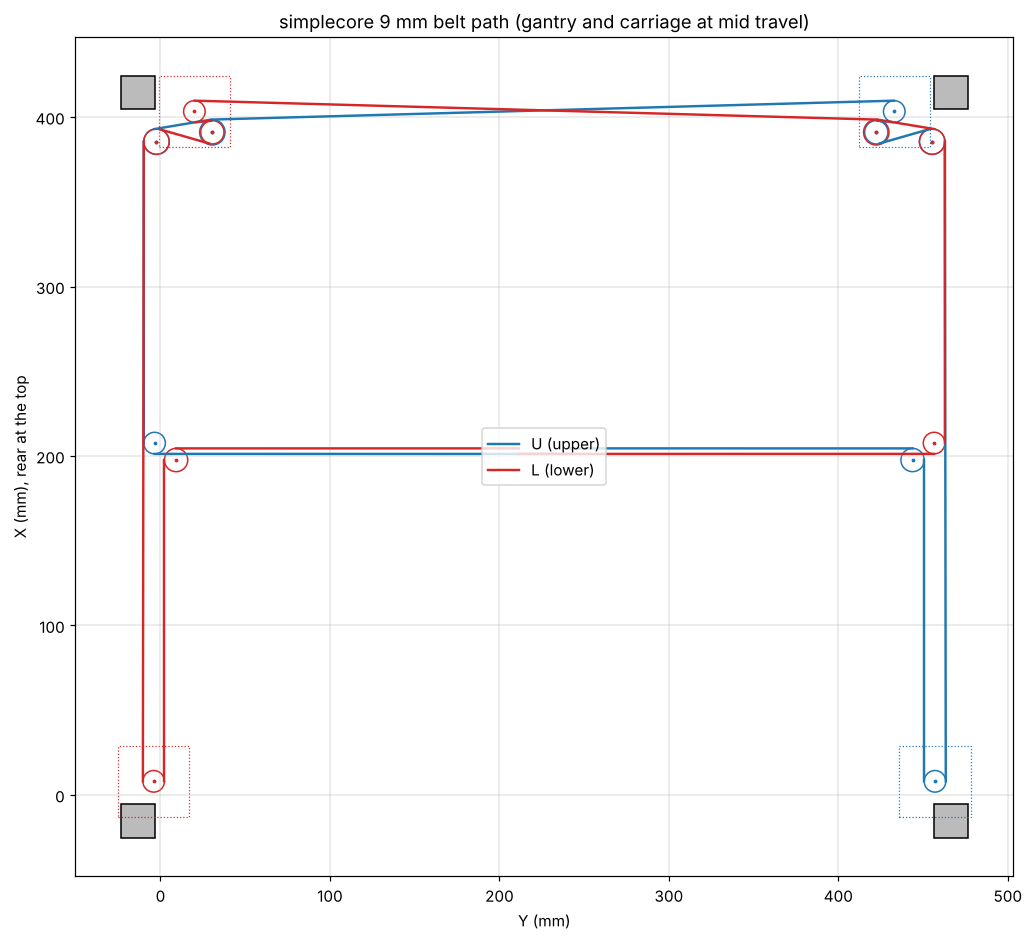
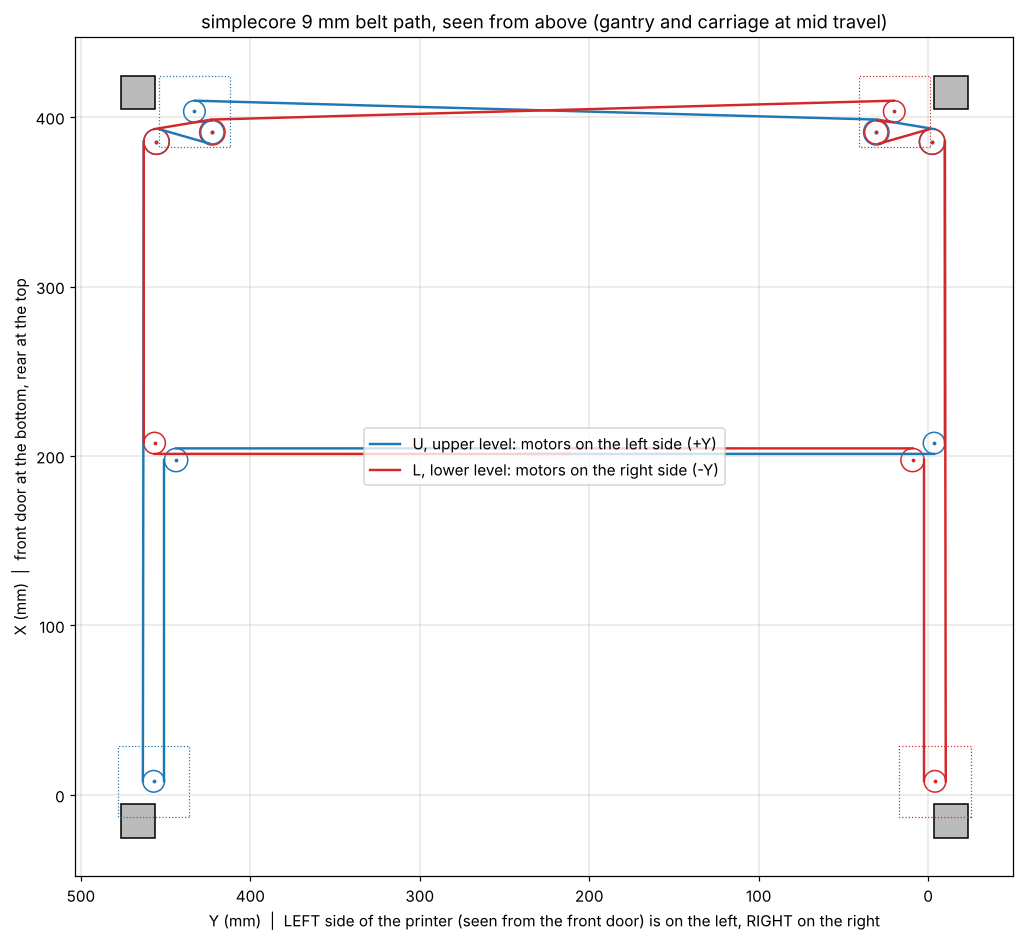
9 mm belts: draw the belt path as a true top view (left side on the left)
Claude-Session: https://claude.ai/code/session_01M2WaH9zMmXLPC6fQWdVKvF

diff --git a/9mm-belts/beltpath.py b/9mm-belts/beltpath.py
@@ -46,14 +46,14 @@ def draw(fn):
     fig, ax = plt.subplots(figsize=(11, 10))
     for (x0, y0) in [(-25.5, -23.5), (-25.5, 456.5), (404.5, -23.5), (404.5, 456.5)]:
         ax.add_patch(plt.Rectangle((y0, x0), 20, 20, fc="#bbb", ec="k"))
-    for nm, B, col in zip(("U (upper)", "L (lower)"), belts(185.3, 241.5), ("tab:blue", "tab:red")):
+    for nm, B, col in zip(("U, upper level: motors on the left side (+Y)", "L, lower level: motors on the right side (-Y)"), belts(185.3, 241.5), ("tab:blue", "tab:red")):
         segs, wraps, L = path(B, closed=False)
         for i, (p, q, t) in enumerate(segs): ax.plot([p[1], q[1]], [p[0], q[0]], col, lw=1.6, label=nm if i == 0 else None)
         for (n, x, y, r, s) in B[1:-1]:
             ax.add_patch(plt.Circle((y, x), r, fc="none", ec=col, lw=1)); ax.plot(y, x, ".", color=col, ms=3)
             if "motor" in n: ax.add_patch(plt.Rectangle((y - 21, x - 21), 42, 42, fc="none", ec=col, ls=":", lw=0.8))
-    ax.set_aspect("equal"); ax.set_xlabel("Y (mm)"); ax.set_ylabel("X (mm), rear at the top"); ax.legend(loc="center")
-    ax.set_title("simplecore 9 mm belt path (gantry and carriage at mid travel)"); ax.grid(True, lw=0.3); fig.savefig(fn, dpi=110, bbox_inches="tight")
+    ax.set_aspect("equal"); ax.invert_xaxis(); ax.set_xlabel("Y (mm)  |  LEFT side of the printer (seen from the front door) is on the left, RIGHT on the right"); ax.set_ylabel("X (mm)  |  front door at the bottom, rear at the top"); ax.legend(loc="center")
+    ax.set_title("simplecore 9 mm belt path, seen from above (gantry and carriage at mid travel)"); ax.grid(True, lw=0.3); fig.savefig(fn, dpi=110, bbox_inches="tight")
 if __name__ == "__main__":
     for nm, B in zip("UL", belts(185.3, 241.5)):
         segs, wraps, L = path(B, closed=False)

diff --git a/9mm-belts/README.md b/9mm-belts/README.md
@@ -50,7 +50,8 @@ carries both belts needs a clear height of z 435.0 to 461.1 (26.1 mm) between it
 ## Belt path (from Jonas's photos of 2026-11-15 and the idler positions in the CAD)
 
 `beltpath.py` computes it and draws `beltpath.png`. It also checks that each belt's length stays constant over the whole travel.
-Front is −X, rear is +X.
+Front is −X, rear is +X. Seen from the front door, +Y is the left side and −Y the right side, and the picture is drawn that way (the first version of it was mirrored).
+The upper belt's motors are on the left, the lower belt's on the right.
 
 - **Belt U (upper level):** carriage → +Y joint smooth stack → forward at y 450.67 → **front +Y motor**, 180° →
   back along the +Y side at y ≈ 463.4, through the joint → rear +Y idler A → idler C → **rear +Y motor**, 187° →
